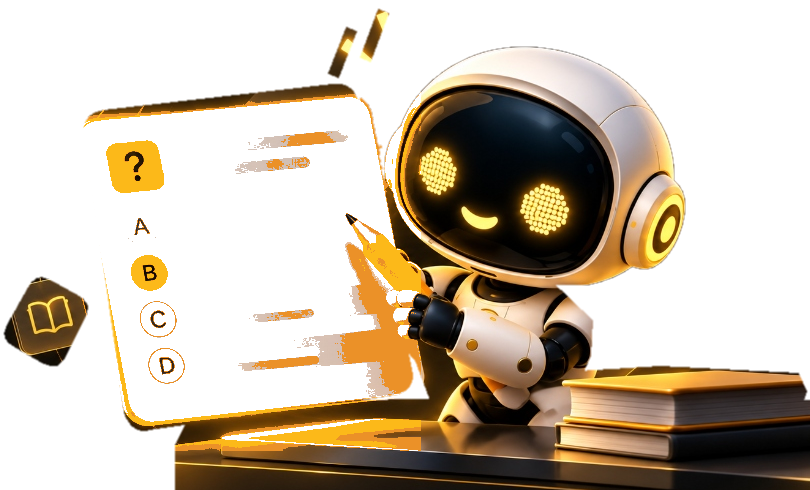
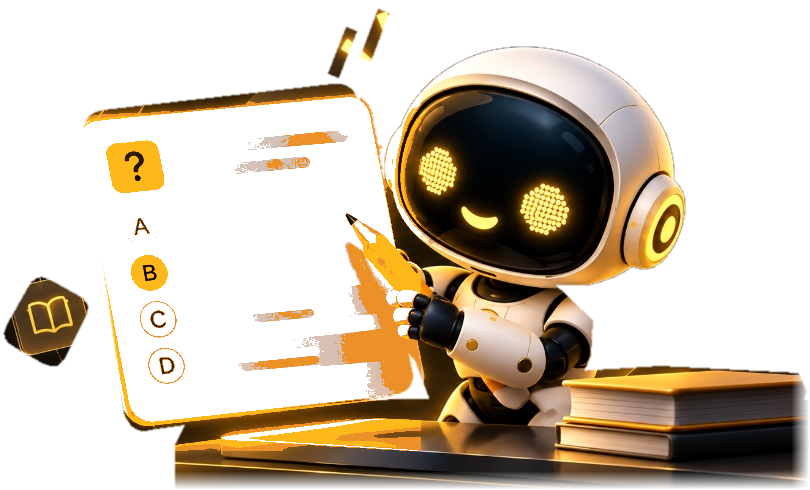
fix(quizzes): remove glow behind quiz bot, implement pure golden and white particles, and increase particle density for crisp visibility

Changed region(s): [[0.216, 0.7653, 1.0, 1.0]]

diff --git a/frontend/components/VedikaParticleBot.jsx b/frontend/components/VedikaParticleBot.jsx
@@ -125,7 +125,8 @@ export default function VedikaParticleBot({
   className = '',
   inline = false,
   themeRgb = null,
-  intensity = 1.0
+  intensity = 1.0,
+  particleStep = null
 }) {
   const canvasRef = useRef(null);
   const containerRef = useRef(null);
@@ -226,9 +227,12 @@ export default function VedikaParticleBot({
     function sampleFromImage(sourceImg) {
       updateCanvasSize();
       const isMobile = window.innerWidth < 768;
+      const step = particleStep !== null && particleStep !== undefined
+        ? particleStep
+        : (colorMode === 'golden' ? (isMobile ? 3 : 2) : (isMobile ? 4 : 3));
 
       const imageSrc = sourceImg?.currentSrc || sourceImg?.src || src;
-      const cacheKey = `${imageSrc}_${inline ? 'inline' : 'full'}_${width}_${height}_${colorMode}_v7`;
+      const cacheKey = `${imageSrc}_${inline ? 'inline' : 'full'}_${width}_${height}_${colorMode}_s${step}_v8`;
       if (TARGET_CACHE.has(cacheKey)) {
         const cached = TARGET_CACHE.get(cacheKey);
         targetWidth = cached.targetWidth;
@@ -293,7 +297,6 @@ export default function VedikaParticleBot({
 
       const scaleX = targetWidth / sampleW;
       const scaleY = targetHeight / sampleH;
-      const step = isMobile ? 4 : 3;
       const targets = [];
       const sizeFactor = inline ? 0.96 : 1.0;
       const currentInt = intensityRef.current || 1.0;
@@ -319,7 +322,39 @@ export default function VedikaParticleBot({
           let pSize;
           let baseR, baseG, baseB, baseAlpha;
 
-          if (colorMode === 'vibrant') {
+          if (colorMode === 'golden') {
+            const saturation = maxC > 0 ? (maxC - minC) / maxC : 0;
+
+            if ((luminance > 170 && saturation < 0.28) || luminance > 215) {
+              // Crisp pure white (MCQ paper sheet, robot helmet highlights, sparkles, page edges)
+              baseR = 255;
+              baseG = 255;
+              baseB = 255;
+              baseAlpha = Math.min(1, Math.max(0.96, alphaNorm * 0.99));
+              pSize = (1.25 + Math.random() * 0.25) * sizeFactor;
+            } else if (saturation > 0.16 || maxC > 140) {
+              // Radiant amber gold (MCQ questions '?', option circles A/B/C/D, pencil, glowing eyes, smile)
+              baseR = 251;
+              baseG = 191;
+              baseB = 36;
+              baseAlpha = Math.min(1, Math.max(0.95, alphaNorm * 0.99));
+              pSize = (1.22 + Math.random() * 0.25) * sizeFactor;
+            } else if (luminance > 65) {
+              // Warm rich gold midtone (Robot body, arm holding paper, book covers)
+              baseR = 228;
+              baseG = 152;
+              baseB = 22;
+              baseAlpha = Math.min(0.94, Math.max(0.82, alphaNorm * 0.92));
+              pSize = (1.15 + Math.random() * 0.20) * sizeFactor;
+            } else {
+              // Deep bronze gold (Contours, creases, book shadows)
+              baseR = 185;
+              baseG = 110;
+              baseB = 12;
+              baseAlpha = Math.min(0.80, Math.max(0.60, alphaNorm * 0.78));
+              pSize = (1.00 + Math.random() * 0.18) * sizeFactor;
+            }
+          } else if (colorMode === 'vibrant') {
             const saturation = maxC > 0 ? (maxC - minC) / maxC : 0;
 
             if (saturation > 0.14 && maxC > 40) {
@@ -836,7 +871,11 @@ export default function VedikaParticleBot({
       }
     };
 
-    const cacheKey = `${src}_${inline ? 'inline' : 'full'}_${width}_${height}_${colorMode}`;
+    const isMobile = window.innerWidth < 768;
+    const step = particleStep !== null && particleStep !== undefined
+      ? particleStep
+      : (colorMode === 'golden' ? (isMobile ? 3 : 2) : (isMobile ? 4 : 3));
+    const cacheKey = `${src}_${inline ? 'inline' : 'full'}_${width}_${height}_${colorMode}_s${step}_v8`;
     if (TARGET_CACHE.has(cacheKey)) {
       onImageReady();
     } else {
@@ -964,7 +1003,7 @@ export default function VedikaParticleBot({
       window.removeEventListener('click', handleClick);
       window.removeEventListener('resize', handleResize);
     };
-  }, [width, height, colorMode]);
+  }, [width, height, colorMode, particleStep]);
 
   return (
     <div

diff --git a/frontend/components/QuizzesAssignmentsWorkspace.jsx b/frontend/components/QuizzesAssignmentsWorkspace.jsx
@@ -427,82 +427,6 @@ export default function QuizzesAssignmentsWorkspace({ initialMode = 'quizzes' })
           overflow: hidden;
         }
 
-        /* Multi-layered Shimmer Glow Aura behind Quiz Bot */
-        .quiz-bot-glow-bg {
-          position: absolute;
-          top: 48%;
-          left: 50%;
-          transform: translate(-50%, -50%);
-          width: 480px;
-          height: 480px;
-          border-radius: 50%;
-          background: radial-gradient(
-            circle,
-            rgba(245, 158, 11, 0.32) 0%,
-            rgba(217, 119, 6, 0.12) 42%,
-            transparent 72%
-          );
-          filter: blur(44px);
-          pointer-events: none;
-          z-index: 0;
-          animation: quizShimmerPulse 4.5s ease-in-out infinite;
-        }
-
-        .quiz-bot-glow-radial {
-          position: absolute;
-          top: 48%;
-          left: 50%;
-          transform: translate(-50%, -50%);
-          width: 340px;
-          height: 340px;
-          border-radius: 50%;
-          background: radial-gradient(
-            circle,
-            rgba(251, 191, 36, 0.35) 0%,
-            rgba(245, 158, 11, 0.1) 50%,
-            transparent 75%
-          );
-          filter: blur(28px);
-          pointer-events: none;
-          z-index: 0;
-          animation: quizShimmerRotate 10s linear infinite;
-        }
-
-        .quiz-bot-glow-pulse {
-          position: absolute;
-          top: 48%;
-          left: 50%;
-          transform: translate(-50%, -50%);
-          width: 220px;
-          height: 220px;
-          border-radius: 50%;
-          background: radial-gradient(
-            circle,
-            rgba(255, 255, 255, 0.25) 0%,
-            rgba(245, 158, 11, 0.28) 45%,
-            transparent 70%
-          );
-          filter: blur(18px);
-          pointer-events: none;
-          z-index: 0;
-          animation: quizShimmerPulse 3.2s ease-in-out infinite alternate;
-        }
-
-        @keyframes quizShimmerPulse {
-          0%, 100% {
-            transform: translate(-50%, -50%) scale(1);
-            opacity: 0.75;
-          }
-          50% {
-            transform: translate(-50%, -50%) scale(1.12);
-            opacity: 0.98;
-          }
-        }
-
-        @keyframes quizShimmerRotate {
-          0% { transform: translate(-50%, -50%) rotate(0deg); }
-          100% { transform: translate(-50%, -50%) rotate(360deg); }
-        }
 
         /* Seamless Cosmic Purple Ambient Background */
         .assignments-ambient-bg {
@@ -1203,12 +1127,7 @@ export default function QuizzesAssignmentsWorkspace({ initialMode = 'quizzes' })
         {/* BOX 1 SIDE: SMALLER PANEL - QUIZ BOT PARTICLE ANIMATION        */}
         {/* ============================================================== */}
         <div className="box1-side">
-          {/* Multi-layered Shimmer Glow Aura behind Quiz Bot (Golden Theme) */}
-          <div className="quiz-bot-glow-bg" />
-          <div className="quiz-bot-glow-radial" />
-          <div className="quiz-bot-glow-pulse" />
-
-          {/* Interactive Particle Bot Canvas */}
+          {/* Interactive Particle Bot Canvas (Golden & White Particles, No Obscuring Glow) */}
           <div style={{
             position: 'relative',
             width: '100%',
@@ -1220,12 +1139,12 @@ export default function QuizzesAssignmentsWorkspace({ initialMode = 'quizzes' })
             zIndex: 2
           }}>
             <VedikaParticleBot
-              src="/vedika-bot-quiz.png?v=7"
-              colorMode="vibrant"
+              src="/vedika-bot-quiz.png?v=9"
+              colorMode="golden"
               width={isMobile ? 360 : 640}
               height={isMobile ? 280 : 480}
               inline={true}
-              intensity={0.82}
+              particleStep={isMobile ? 3 : 2}
             />
           </div>
 
